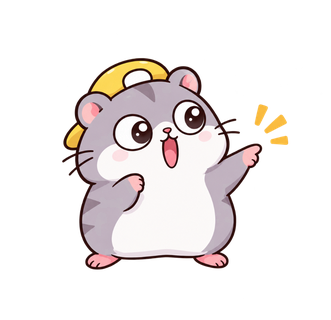
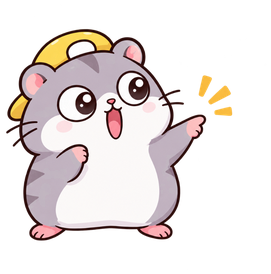
fix: brighten description text, normalize hamster sprite sizing, and keep all province pins expanded on land

diff --git a/src/scene/ThailandMap.tsx b/src/scene/ThailandMap.tsx
@@ -5,7 +5,7 @@ import type { Kid } from "../types";
 import type { ProvinceFeature } from "../geo/provinces";
 import { generateProvincePins, provinceNames } from "../geo/provinces";
 import { projectLngLat } from "../geo/project";
-import { clusterPoints, fanOut } from "../cluster/screen";
+import { clusterPoints, fanOut, type ScreenCluster } from "../cluster/screen";
 import { awardView, separateAwardGroups, awardAtScreenPoint } from "./awardView";
 import {
   PIN_HEIGHT,
@@ -360,8 +360,10 @@ export default function ThailandMap(props: Props) {
             p.x > -24 && p.x < width + 24 && p.y > -24 && p.y < height + 24,
         );
       const selectedPoint = props.preview ? projectedPoints.find((p) => p.id === selectedPinId) : undefined;
-      let groups = clusterPoints(points.filter((p) => p !== selectedPoint), props.preview ? 52 : 36);
-      if (selectedPoint) {
+      let groups: ScreenCluster[] = props.preview
+        ? points.map((p) => ({ ...p, ids: [p.id] }))
+        : clusterPoints(points.filter((p) => p !== selectedPoint), 36);
+      if (!props.preview && selectedPoint) {
         groups = separateAwardGroups(groups, selectedPoint, width, height);
         groups.push({ ...selectedPoint, ids: [selectedPoint.id] });
       }
@@ -524,7 +526,8 @@ export default function ThailandMap(props: Props) {
             callbacks.current.onSelect(id),
           );
         } else if (
-          fanIds?.length === group.ids.length &&
+          fanIds &&
+          fanIds.length === group.ids.length &&
           fanIds.every((id, index) => id === group.ids[index])
         ) {
           const pageSize = 24;

diff --git a/src/ui/discovery.css b/src/ui/discovery.css
@@ -384,7 +384,7 @@
 /* Phase 2: the student tells their own project, clean prose below the slide. */
 .presentation-speech { position: relative; margin: 6px 0 0; }
 .presentation-speech .student-preview__description,
-.presentation-speech .presentation-speech__measure { position: relative; margin: 0; padding: 0; border-radius: 0; background: transparent; border: 0; color: var(--ink-secondary); box-shadow: none; font-size: 13px; line-height: 1.6; }
+.presentation-speech .presentation-speech__measure { position: relative; margin: 0; padding: 0; border-radius: 0; background: transparent; border: 0; color: #f1f5f9; box-shadow: none; font-size: 13.5px; line-height: 1.65; }
 .presentation-speech .presentation-speech__measure { position: absolute; top: 0; left: 0; right: 0; visibility: hidden; pointer-events: none; display: -webkit-box; -webkit-box-orient: vertical; -webkit-line-clamp: 2; overflow: hidden; }
 .presentation-speech .student-preview__description[data-expanded=false] > [aria-hidden] { display: -webkit-box; -webkit-box-orient: vertical; -webkit-line-clamp: 2; overflow: hidden; }
 .presentation-speech .student-preview__description [data-typing=true]::after { content: ""; display: inline-block; width: 2px; height: 1em; margin-left: 2px; vertical-align: -2px; background: #fff; animation: caret-blink 700ms steps(1) infinite; }

diff --git a/src/ui/guides.css b/src/ui/guides.css
@@ -281,6 +281,8 @@
 .explainer[data-aside=true] { opacity: 0.72; visibility: visible; }
 .explainer[data-aside=true] .explainer__caption { display: none; }
 .explainer__body { transform-origin: 50% 90%; object-position: center bottom; filter: drop-shadow(0 6px 8px #06132666); }
+.explainer[data-pose=startle] .explainer__body,
+.explainer[data-startled=true] .explainer__body { scale: 1.12; }
 .explainer[data-traveling=true] .explainer__body { animation: hamster-bob 340ms ease-in-out infinite; }
 .explainer__caption { position: absolute; bottom: calc(100% + 10px); left: var(--caption-left, -16px); width: max-content; min-width: 148px; max-width: var(--caption-max-width, min(260px, calc(100vw - 32px))); padding: 10px 14px; border-radius: 12px; background: #0d1b30f5; border: 1px solid rgba(186, 214, 240, 0.22); box-shadow: 0 6px 18px rgba(3, 10, 22, 0.36); color: #f1f5f9; }
 .explainer__caption::after { content: ""; position: absolute; bottom: -6px; left: var(--caption-tail-left, 56px); width: 10px; height: 10px; background: #0d1b30f5; border-right: 1px solid rgba(186, 214, 240, 0.22); border-bottom: 1px solid rgba(186, 214, 240, 0.22); transform: rotate(45deg); }
